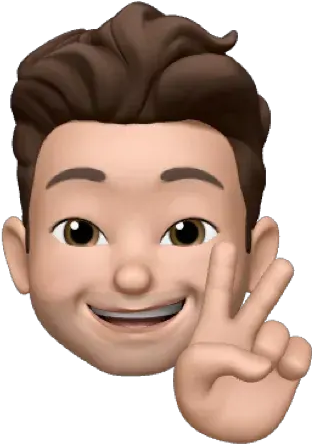
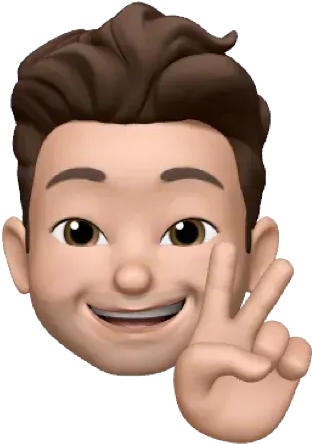
finished project

diff --git a/src/components/Projects.jsx b/src/components/Projects.jsx
@@ -1,0 +1,229 @@
+import React from 'react'
+import forkify from '../img/forkify.png'
+import budgety from '../img/budgety.png'
+import dice from '../img/dice.png'
+import awarding from '../img/awarding.png'
+import monaco from '../img/monaco.png'
+import webinar from '../img/webinar.png'
+import { FaGithub,FaGoogleDrive} from 'react-icons/fa'
+
+
+
+const Projects = () => {
+  return (
+    
+    <div className='max-w-4xl mx-auto justify-center py-12'>
+       <p className='text-2xl text-black sm:text-4xl text-center font-bold pt-4'>
+        Recent Works <span>💻</span>
+      </p> 
+      <div className='flex flex-wrap place-items-center mt-12'>
+
+        {/* Forkify */}
+        <div className='overflow-hidden shadow-lg transition duration-500 ease-in-out transform hover:-translate-y-5 hover:shadow-2xl rounded-lg h-90 w-60 md:w-80 cursor-pointer mx-auto mb-20'>
+          <img src={forkify} alt="Forkify" className='max-h-40 w-full object-cover' />
+          <div className='bg-white w-full p-4'>
+            <p className='text-indigo-500 text-2xl font-medium'>
+              Forkify
+            </p>
+            <p className='text-gray-800 text-sm font-medium mb-2'>
+              Manage and search your recipe in easy way
+            </p>
+            <p className='text-gray-600 font-light text-md'>
+              Some simple web app that made with plain html, css, javascript and fetch api with external source in spoonacular api
+            </p>
+            
+            {/* TAG */}
+            <div className='flex flex-wrap justify-start items-center py-3 border-b-2 text-xs text-white font-medium'>
+              <span className='m-1 px-2 py-1 rounded bg-indigo-500'>
+                HTML
+              </span>
+              <span className='m-1 px-2 py-1 rounded bg-indigo-500'>
+                CSS
+              </span>
+              <span className='m-1 px-2 py-1 rounded bg-indigo-500'>
+                JS
+              </span>
+              <span className='m-1 px-2 py-1 rounded bg-indigo-500'>
+                Webpack
+              </span>
+              <span className='m-1 px-2 py-1 rounded bg-indigo-500'>
+                Babel
+              </span>
+            </div>
+            <div className='flex justify-center text-center mx-auto my-2'>
+              <a href="https://github.com/fear-rush/forkify">
+                <FaGithub size='28'/>  
+              </a>
+            </div>
+          </div>
+        </div>
+
+        {/* Budgety */}
+        <div className='overflow-hidden shadow-lg transition duration-500 ease-in-out transform hover:-translate-y-5 hover:shadow-2xl rounded-lg h-90 w-60 md:w-80 cursor-pointer mx-auto mb-20'>
+          <img src={budgety} alt="Budgety" className='max-h-40 w-full object-cover' />
+          <div className='bg-white w-full p-4'>
+            <p className='text-indigo-500 text-2xl font-medium'>
+              Budgety
+            </p>
+            <p className='text-gray-800 text-sm font-medium mb-2'>
+              Manage your daily income and expenses
+            </p>
+            <p className='text-gray-600 font-light text-md'>
+             Simple web app to calculate daily income and expenses. Made with plain HTML, CSS, Javascript
+            </p>
+            {/* TAG */}
+            <div className='flex flex-wrap justify-start items-center py-3 border-b-2 text-xs text-white font-medium'>
+              <span className='m-1 px-2 py-1 rounded bg-indigo-500'>
+                HTML
+              </span>
+              <span className='m-1 px-2 py-1 rounded bg-indigo-500'>
+                CSS
+              </span>
+              <span className='m-1 px-2 py-1 rounded bg-indigo-500'>
+                JS
+              </span>
+            </div>
+            <div className='flex justify-center text-center mx-auto my-2'>
+              <a href="https://github.com/fear-rush/Budgety">
+                <FaGithub size='28'/>  
+              </a>
+            </div>
+          </div>
+        </div>
+
+        {/* Dice Games */}
+        <div className='overflow-hidden shadow-lg transition duration-500 ease-in-out transform hover:-translate-y-5 hover:shadow-2xl rounded-lg h-90 w-60 md:w-80 cursor-pointer mx-auto mb-20'>
+          <img src={dice} alt="Budgety" className='max-h-40 w-full object-cover' />
+          <div className='bg-white w-full p-4'>
+            <p className='text-indigo-500 text-2xl font-medium'>
+              Dice Games
+            </p>
+            <p className='text-gray-800 text-sm font-medium mb-2'>
+              Easy to play dice games
+            </p>
+            <p className='text-gray-600 font-light text-md'>
+             Simple multiplayer dice game. Made with HTML, CSS, Javascript
+            </p>
+            {/* TAG */}
+            <div className='flex flex-wrap justify-start items-center py-3 border-b-2 text-xs text-white font-medium'>
+              <span className='m-1 px-2 py-1 rounded bg-indigo-500'>
+                HTML
+              </span>
+              <span className='m-1 px-2 py-1 rounded bg-indigo-500'>
+                CSS
+              </span>
+              <span className='m-1 px-2 py-1 rounded bg-indigo-500'>
+                JS
+              </span>
+            </div>
+            <div className='flex justify-center text-center mx-auto my-2'>
+              <a href="https://github.com/fear-rush/dicegame">
+                <FaGithub size='28'/>  
+              </a>
+            </div>
+          </div>
+        </div>
+
+           {/* Webinar */}
+           <div className='overflow-hidden shadow-lg transition duration-500 ease-in-out transform hover:-translate-y-5 hover:shadow-2xl rounded-lg h-90 w-60 md:w-80 cursor-pointer mx-auto mb-20 '>
+          <img src={webinar} alt="Budgety" className='max-h-40 w-full object-cover' />
+          <div className='bg-white w-full p-4'>
+            <p className='text-indigo-500 text-2xl font-medium'>
+              Technocorner Project
+            </p>
+            <p className='text-gray-800 text-sm font-medium mb-2'>
+              Motion Graphic Video Project
+            </p>
+            <p className='text-gray-600 font-light text-md'>
+              Motion graphic video webinar opener for Technocorner Event
+            </p>
+           
+            {/* TAG */}
+            <div className='flex flex-wrap justify-start items-center py-3 border-b-2 text-xs text-white font-medium'>
+              <span className='m-1 px-2 py-1 rounded bg-indigo-500'>
+                After Effect
+              </span>
+              <span className='m-1 px-2 py-1 rounded bg-indigo-500'>
+                Premiere Pro
+              </span>
+            </div>
+            <div className='flex justify-center text-center mx-auto my-2'>
+              <a href="https://drive.google.com/drive/folders/1-zyVetakrd3N0Kst26yII_HhYPQjNd4B?usp=sharing">
+                <FaGoogleDrive size='28'/>  
+              </a>
+            </div>
+          </div>
+        </div>
+
+
+        {/* Awarding */}
+        <div className='overflow-hidden shadow-lg transition duration-500 ease-in-out transform hover:-translate-y-5 hover:shadow-2xl rounded-lg h-90 w-60 md:w-80 cursor-pointer mx-auto'>
+          <img src={awarding} alt="Budgety" className='max-h-40 w-full object-cover' />
+          <div className='bg-white w-full p-4'>
+            <p className='text-indigo-500 text-2xl font-medium'>
+              Agadaveda Awarding
+            </p>
+            <p className='text-gray-800 text-sm font-medium mb-2'>
+              Motion Graphic Video Project
+            </p>
+            <p className='text-gray-600 font-light text-md'>
+              Commisioned project from Fadeo Party event planner.
+            </p>
+            {/* TAG */}
+            <div className='flex flex-wrap justify-start items-center py-3 border-b-2 text-xs text-white font-medium'>
+              <span className='m-1 px-2 py-1 rounded bg-indigo-500'>
+                After Effect
+              </span>
+              <span className='m-1 px-2 py-1 rounded bg-indigo-500'>
+                Premiere Pro
+              </span>
+            </div>
+            <div className='flex justify-center text-center mx-auto my-2'>
+              <a href="https://drive.google.com/drive/folders/1-zyVetakrd3N0Kst26yII_HhYPQjNd4B?usp=sharing">
+                <FaGoogleDrive size='28'/>  
+              </a>
+            </div>
+          </div>
+        </div>
+
+
+        {/* Monaco */}
+        <div className='overflow-hidden shadow-lg transition duration-500 ease-in-out transform hover:-translate-y-5 hover:shadow-2xl rounded-lg h-90 w-60 md:w-80 cursor-pointer mx-auto'>
+          <img src={monaco} alt="Budgety" className='max-h-40 w-full object-cover' />
+          <div className='bg-white w-full p-4'>
+            <p className='text-indigo-500 text-2xl font-medium'>
+              MONACO Project
+            </p>
+            <p className='text-gray-800 text-sm font-medium mb-2'>
+              Motion Graphic Video Project
+            </p>
+            <p className='text-gray-600 font-light text-md'>
+              Motion graphic video opener Moehi National Competition
+            </p>
+            {/* TAG */}
+            <div className='flex flex-wrap justify-start items-center py-3 border-b-2 text-xs text-white font-medium'>
+              <span className='m-1 px-2 py-1 rounded bg-indigo-500'>
+                After Effect
+              </span>
+              <span className='m-1 px-2 py-1 rounded bg-indigo-500'>
+                Premiere Pro
+              </span>
+            </div>
+            <div className='flex justify-center text-center mx-auto my-2'>
+              <a href="https://drive.google.com/drive/folders/1-zyVetakrd3N0Kst26yII_HhYPQjNd4B?usp=sharing">
+                <FaGoogleDrive size='28'/>  
+              </a>
+            </div>
+          </div>
+        </div>
+
+
+     
+      </div>
+
+    </div>
+
+  )
+}
+
+export default Projects

diff --git a/src/components/Card.jsx b/src/components/Card.jsx
@@ -7,7 +7,7 @@ const Card = () => {
     <div className = 'w-full'>
       <div className = 'overflow-hidden flex flex-col justify-center mt-10 max-w-md mx-auto bg-white shadow-2xl rounded-lg p-9'>
         <div className=''>
-          <img className='w-32 mx-auto shadow-xl rounded-full drop-shadow-xl' src={profile} alt='profile'></img>
+          <img className='w-32 mx-auto' src={profile} alt='profile'></img>
         </div>
         <div className='text-center mt-5'>
           <p className='text-xl sm:text-2xl text-gray-900 font-semibold'>
@@ -22,7 +22,7 @@ const Card = () => {
 
             <SocialMediaIcon icon={<FaGithub color='black'/>} name='Github' link='https://github.com/fear-rush'/>
             <SocialMediaIcon icon={<FaLinkedin color='#0077b5'/>} name='LinkedIn' link='https://www.linkedin.com/in/muhammadfiras/'/>
-            <SocialMediaIcon icon={<FaTwitter color='#00a0dc'/>} name='Twitter' link='https://twitter.com/gullyleoo1'/>
+            <SocialMediaIcon icon={<FaTwitter color='#00a0dc'/>} name='Twitter' link='https://twitter.com/muhfiras1'/>
             <SocialMediaIcon icon={<FaInstagram color='#bc2a8d'/>} name='Instagram' link='https://instagram.com/muhfiras_'/>
 
           </div>
@@ -35,11 +35,11 @@ const Card = () => {
   )
 }
 
-const SocialMediaIcon = ({ icon, name, link }) => (
-  <a className='text-2xl m-12 p-12 sm:m-2 sm:p-2 transform hover:scale-150 transition-all' href={link}> 
-      {icon}
-    <span className='sr-only'>{name}</span>
-  </a>
-);
+  const SocialMediaIcon = ({ icon, name, link }) => (
+    <a className='text-2xl m-1 p-1  transform hover:scale-150 transition-all' href={link}> 
+        {icon}
+      <span className='sr-only'>{name}</span>
+    </a>
+  );
 
 export default Card;

diff --git a/src/components/About.jsx b/src/components/About.jsx
@@ -1,22 +1,26 @@
 import React from 'react'
-import scrollIntoView from 'scroll-into-view'
 import { FaChevronDown } from 'react-icons/fa'
 
 const About = () => {
+
+  const onContentClick = (value) => {
+    const element = document.getElementById('tech');
+    element.scrollIntoView({behavior: 'smooth'});
+  }
+
+
   return (
     <div className='max-w-4xl mt-20 mx-auto'>
       <p className='text-2xl text-black md:text-4xl font-bold text-center'>
-        Hello 👋
+        Hello <span>👋</span>
       </p>
       <p className='text-base md:text-2xl text-center text-gray-600 leading-relaxed mt-4'>
         I'm a web developer, mostly worked on front-end developer and currently im studying devops tech stack like docker, nginx and kubernetes.
       </p>
 
-      <scrollIntoView selector="">
-        <div className='mx-auto p-20'>
-          <FaChevronDown className='animate-bounce mx-auto text-3xl text-blue-500'/>
+        <div className='mx-auto p-20 my-12'>
+          <FaChevronDown onClick={onContentClick} className='animate-bounce mx-auto text-3xl text-blue-500'/>
         </div>
-      </scrollIntoView>
 
     </div>
   )

diff --git a/src/components/Skills.jsx b/src/components/Skills.jsx
@@ -4,15 +4,11 @@ import { SiTailwindcss, SiJavascript } from 'react-icons/si'
 
 const Skills = () => {
   return (
-    <div className='max-w-4xl mx-auto justify-center py-12' id='tech-stack'>
+    <div className='max-w-4xl mx-auto justify-center py-12' id='tech'>
       <p className='text-2xl text-black sm:text-4xl text-center font-bold pt-4'>
-        Tech Stack
+        Tech Stack <span>📚</span>
       </p>
       <div className='flex flex-wrap justify-center pt-2'>
-        {/* <div className='flex flex-col w-40 p-10 m-6 overflow-hidden bg-white shadow-2xl rounded-xl sm:w-52'>
-          <FaHtml5 className='mx-auto'/>
-          <p className='mt-6 text-xl sm:text-2xl font-semibold text-center'>HTML</p>
-        </div> */}
           <TechStack icon={<FaHtml5 color='#f06529' size='38' className='mx-auto'/>} name='HTML'/>
           <TechStack icon={<FaCss3 color='#2965f1' size='38' className='mx-auto'/>} name='CSS'/>
           <TechStack icon={<SiJavascript color='#f0db4f' size='38' className='mx-auto'/>} name='Javascript'/>

diff --git a/src/App.jsx b/src/App.jsx
@@ -1,15 +1,36 @@
 import './App.css';
-import Card from './components/Card'
+import Card from './components/Card';
 import About from './components/About';
 import Skills from './components/Skills';
+import Footer from './components/Footer';
+import Projects from './components/Projects';
+import Contact from './components/Contact';
+import Aos from 'aos';
+import 'aos/dist/aos.css';
+import { useEffect } from 'react';
+
 
 function App() {
+
+  useEffect(() => {
+   Aos.init({
+     once: true,
+   })
+  })
+
   return (
-    <>
-    <Card />
-    <About />
-    <Skills />
-    </>
+    <div className = 'min-h=screen py-10 px-3 sm:px-5 bg-gray-100'>
+      <div data-aos='fade-down' data-aos-duration='1200' data-aos-easing='ease-in-sine'>
+        <Card />
+      </div>
+      <div data-aos='fade-up' data-aos-delay='600' data-aos-easing='ease-in-sine'>
+        <About />
+      </div>
+      <Skills />
+      <Projects />
+      <Contact />
+      <Footer />
+    </div>
   );
 }
 

diff --git a/src/components/Contact.jsx b/src/components/Contact.jsx
@@ -1,0 +1,16 @@
+const Contact = () => {
+  return (
+    <div className='max-w-4xl mt-20 mx-auto'>
+      <p className='text-2xl text-black md:text-4xl font-bold text-center'>
+        Interested to Work With Me?
+      </p>
+    <div class="flex justify-center mt-12">
+      <div class="text-center">
+        <a href="mailto:muhammadfiras@mail.ugm.ac.id" class="px-6 py-4 transition-colors duration-700 transform bg-indigo-500 hover:bg-blue-400 text-gray-100 text-lg rounded-lg focus:border-4 border-indigo-300 cursor-pointer">Get In Touch</a>
+      </div>
+    </div>
+    </div>
+  )
+}
+
+export default Contact

diff --git a/src/components/Footer.jsx b/src/components/Footer.jsx
@@ -1,0 +1,11 @@
+const Footer = () => {
+  return (
+    <div className='max-w-3xl mx-auto m-20'>
+      <p className='text-center text-xl'>
+        Made by <span className='text-yellow-500'>Muhammad Firas</span>
+      </p>
+    </div>
+  )
+}
+
+export default Footer
